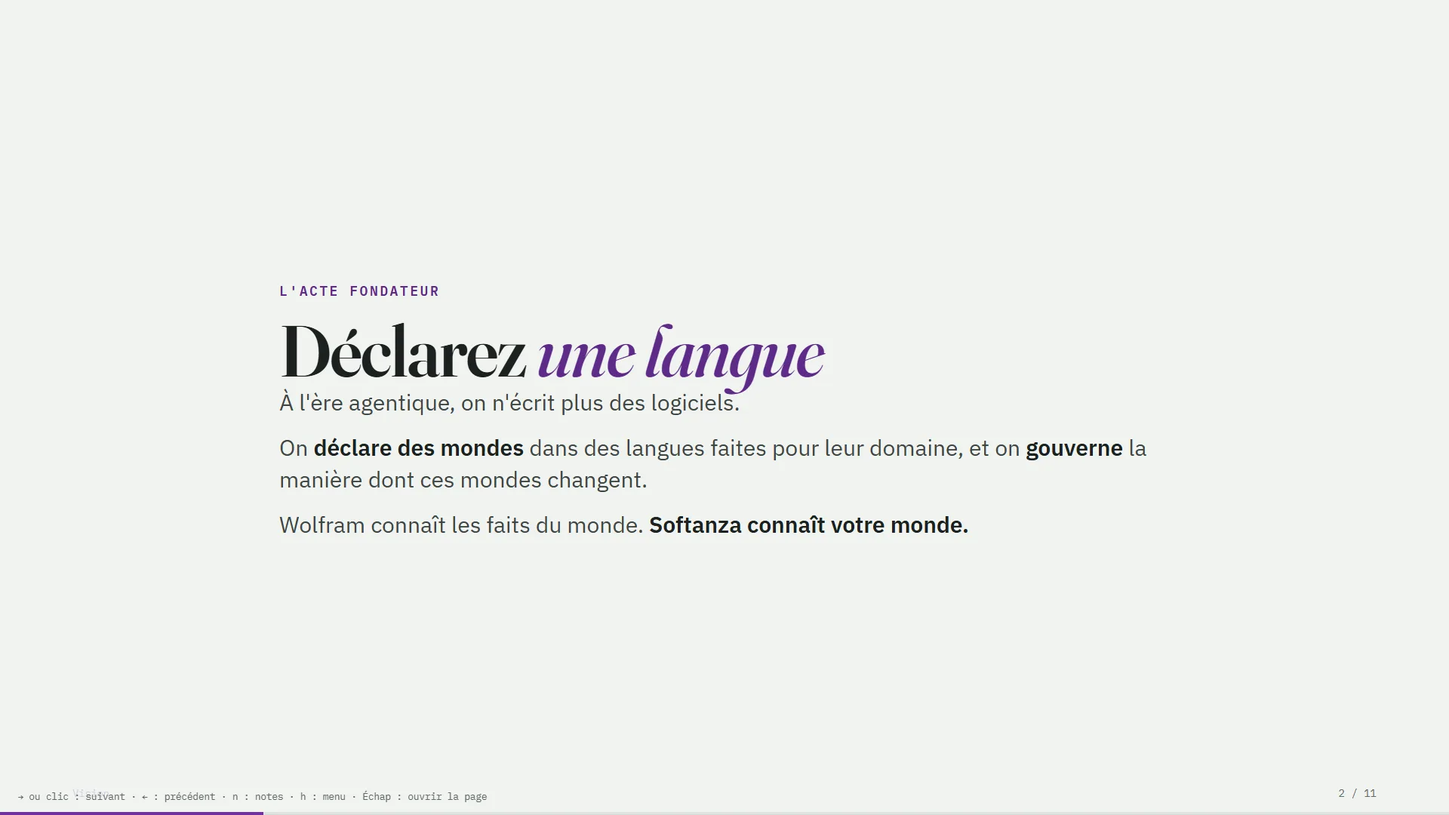
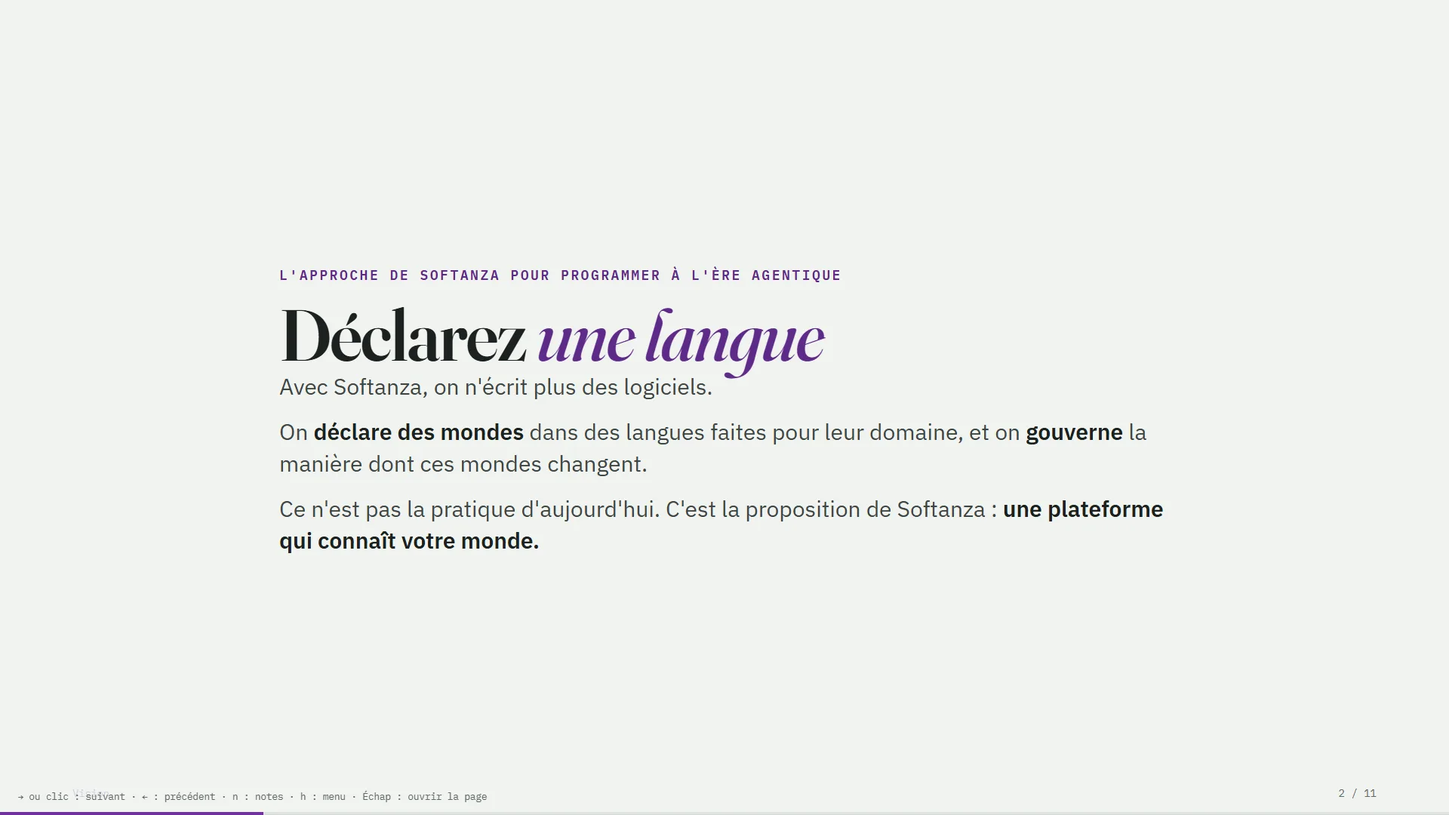
Wording: Wolfram is never put forward, and the declared-language approach is Softanza's own, not today's practice
On the author's reading: the sentence "Wolfram knows the world's facts.
Softanza knows your world." leaves the agentic page, the vision page and the
tour in both languages; every sentence stating the founding act is attributed
to Softanza ("with Softanza you do not write software", "Softanza's approach to
programming in the agentic age, not today's practice"). Wolfram remains only as
one of four platforms in the comparison lists and the coverage matrix.

Changed region(s): [[0.1875, 0.3361, 0.8125, 0.6722], [0.5312, 0.3361, 0.5625, 0.3667], [0.4062, 0.3361, 0.4375, 0.3667]]

diff --git a/fr/agentic.html b/fr/agentic.html
@@ -79,7 +79,7 @@ TOTAL: 13 assertions, 13 pass, 0 fail</pre>
 <p class="way"><span>La manière Softanza</span> L'expression est libre, l'admission est gouvernée. Deviner est remplacé par demander ; les vibrations sont remplacées par la gouvernance.</p>
 
 <h2 id="languages">Une langue des langues : déclarez la vôtre</h2>
-<p>L'acte fondateur de la plateforme est que <strong>déclarer une langue est aussi simple que déclarer une variable.</strong> Un expert du métier écrit, en texte brut, les choses de son monde, les règles entre elles et les flux qui les font bouger. De cette seule déclaration sortent une langue dans son jargon, une base de connaissances de son monde, et un agent qui la parle. Tout cela tourne sur la machine, propulsé par les propres outils de la plateforme : pas d'API, pas de modèle distant, pas d'abonnement.</p>
+<p>L'acte fondateur de Softanza, et sa propre réponse à la programmation à l'ère agentique, est que <strong>déclarer une langue est aussi simple que déclarer une variable.</strong> Ce n'est pas ainsi que l'on écrit les logiciels aujourd'hui ; c'est la voie que Softanza propose. Un expert du métier écrit, en texte brut, les choses de son monde, les règles entre elles et les flux qui les font bouger. De cette seule déclaration sortent une langue dans son jargon, une base de connaissances de son monde, et un agent qui la parle. Tout cela tourne sur la machine, propulsé par les propres outils de la plateforme : pas d'API, pas de modèle distant, pas d'abonnement.</p>
 <figure class="diagram"><img src="../assets/img/diagrams/languages-fr.png" alt="Un expert du métier déclare : DEFINE LANGUAGE tontine, ENTITY member et deposit, NORM amount supérieur à zéro, FLOW round et payout. Par une grammaire fermée viennent trois résultats : une langue de votre métier, fermée et jugée, construite ; une base de connaissances, en pointillé ; un agent qui la parle en local, en pointillé. En pointillé : une direction, pas un fait aujourd'hui." width="1376" height="768"><figcaption>La langue du métier existe et est prouvée : 16 cas de conformité sur 16, sur trois exécutants. La base de connaissances et l'agent conversationnel, comme une seule chaîne depuis une seule déclaration, sont spécifiés et ne tournent pas encore de bout en bout. Dessiné le 2026-10-01.</figcaption></figure>
 
 <p>À quoi ressemble une déclaration, prise dans la langue machine du domaine lui-même. Soixante-dix-neuf lignes déclarent toute la langue ; le méta-tribunal l'a jugée : sept déclarations, cinq formes, zéro expression.</p>
@@ -103,7 +103,7 @@ DEFINE NORM positive_deposit AS (
 
 <p class="proof">Trois strates par langue : une syntaxe fermée, une sémantique en base de connaissances, une pragmatique conversationnelle ; la couche naturelle compile vers la propre grammaire de requête fermée de la langue et jamais vers du code hôte, et elle est fondée sur un dictionnaire, ce qui explique qu'elle n'ait besoin d'aucun modèle. La déclaration de la machine est dans <a href="https://github.com/mayouni/harobanda">le dépôt Harobanda</a>, fichier <code>declarative/machine/machine.stzu</code>. Le dépôt de la discipline de fabrication de langues n'est pas encore public ; son stade, dans ses propres mots : « Phase 1 fermée, phase 1.5 ouverte ; plan et études, pas de code dans ce dépôt encore ». Ce qui tourne aujourd'hui tourne dans la plateforme : <a href="learn.html#book">le chapitre 12 du cours, « Enseigner un monde »</a>, et la couche naturelle montrée sur <a href="platform.html#code">la page Plateforme</a>.</p>
 
-<p class="way"><span>La manière Softanza</span> Wolfram connaît les faits du monde. Softanza connaît votre monde, parce que vous l'avez déclaré, dans votre langue, et que la plateforme a jugé la déclaration.</p>
+<p class="way"><span>La manière Softanza</span> Ce n'est pas ainsi que l'on programme aujourd'hui ; c'est la proposition de Softanza pour l'ère agentique : une plateforme qui connaît votre monde, parce que vous l'avez déclaré, dans votre langue, et qu'elle a jugé la déclaration.</p>
 
 <h2 id="zui">La constitution Zui : une loi qu'une machine peut refuser de violer</h2>
 <p>Les interfaces se dégradent à l'ère agentique, et non par manque de générateurs capables : les générateurs reproduisent, à la vitesse de la machine, chaque présupposé hérité du corpus qu'ils ont appris. La réponse de Softanza est Zui, une constitution pour les interfaces : <strong>122 règles</strong> en 31 ensembles sous 7 articles, <strong>22 verbes</strong> en 6 familles, 6 droits de l'opérateur, et un vérificateur qui contrôle une page contre la loi.</p>

diff --git a/en/agentic.html b/en/agentic.html
@@ -79,7 +79,7 @@ TOTAL: 13 assertions, 13 pass, 0 fail</pre>
 <p class="way"><span>The Softanza way</span> Expression is free, admission is governed. Guessing is replaced by asking; vibes are replaced by governance.</p>
 
 <h2 id="languages">A language of languages: declare yours</h2>
-<p>The founding act of the platform is that <strong>declaring a language is as easy as declaring a variable.</strong> A domain expert writes, in plain text, the things of their world, the rules between them and the flows that move them. Out of that one declaration come a language in their jargon, a knowledge base of their world, and an agent that speaks it. All of it runs on the device, powered by the platform's own tools: no API, no remote model, no subscription.</p>
+<p>Softanza's founding act, and its own answer to programming in the agentic age, is that <strong>declaring a language is as easy as declaring a variable.</strong> This is not how software is written today; it is the way Softanza proposes. A domain expert writes, in plain text, the things of their world, the rules between them and the flows that move them. Out of that one declaration come a language in their jargon, a knowledge base of their world, and an agent that speaks it. All of it runs on the device, powered by the platform's own tools: no API, no remote model, no subscription.</p>
 <figure class="diagram"><img src="../assets/img/diagrams/languages-en.png" alt="A domain expert declares: DEFINE LANGUAGE tontine, ENTITY member and deposit, NORM amount greater than zero, FLOW round and payout. Through one closed grammar come three outcomes: a language of your domain, closed and judged, built; a knowledge base of your world, dashed; an agent that speaks it locally, dashed. Dashed means a direction, not a fact today." width="1376" height="768"><figcaption>The domain language exists and is proven: 16 of 16 conformance cases across three runtimes. The knowledge base and the conversational agent, as one chain from one declaration, are specified and not yet running end to end. Drawn 2026-10-01.</figcaption></figure>
 
 <p>What a declaration looks like, from the estate's own machine language. Seventy-nine lines declare the whole language; the meta-court judged it: seven declarations, five forms, zero expressions.</p>
@@ -103,7 +103,7 @@ DEFINE NORM positive_deposit AS (
 
 <p class="proof">Three strata per language: a closed syntax, a knowledge-base semantics, a conversational pragmatics; the natural layer compiles to the language's own closed query grammar and never to host code, and it is dictionary-driven, which is why it needs no model. The machine declaration is in <a href="https://github.com/mayouni/harobanda">the Harobanda repository</a>, file <code>declarative/machine/machine.stzu</code>. The language-making discipline's own repository is not public yet; its stage, in its own words: "Phase 1 closed, Phase 1.5 open; blueprint and studies, no code in this repository yet". What runs today runs in the platform: <a href="learn.html#book">chapter 12 of the course, "Teach a world"</a>, and the natural layer shown on <a href="platform.html#code">the Platform page</a>.</p>
 
-<p class="way"><span>The Softanza way</span> Wolfram knows the world's facts. Softanza knows your world, because you declared it, in your language, and the platform judged the declaration.</p>
+<p class="way"><span>The Softanza way</span> This is not how programming is done today; it is Softanza's proposal for the agentic age: a platform that knows your world, because you declared it, in your language, and the platform judged the declaration.</p>
 
 <h2 id="zui">The Zui constitution: a law a machine can refuse to violate</h2>
 <p>Interfaces are decaying in the agentic age, and not for lack of capable generators: the generators reproduce, at machine speed, every inherited assumption of the corpus they learned from. Softanza's answer is Zui, a constitution for interfaces: <strong>122 rules</strong> in 31 sets under 7 articles, <strong>22 verbs</strong> in 6 families, 6 operator rights, and a verifier that checks a page against the law.</p>

diff --git a/content/home.html b/content/home.html
@@ -11,8 +11,8 @@
     <h1 class="hero-slogan" data-lang="en">The Makers Platform of the Agentic Age</h1>
     <p class="hero-second" data-lang="fr">Née en Afrique. Utile au monde !</p>
     <p class="hero-second" data-lang="en">Born in Africa. Useful to the World!</p>
-    <p class="hero-voice" data-lang="fr">Vous ne programmez plus des logiciels : vous déclarez votre monde dans une langue faite pour lui, un moteur l'exécute, et des agents la parlent sans pouvoir vous nuire.</p>
-    <p class="hero-voice" data-lang="en">You no longer write software: you declare your world in a language made for it, one engine runs it, and agents speak it without being able to hurt you.</p>
+    <p class="hero-voice" data-lang="fr">Avec Softanza, vous ne programmez plus des logiciels : vous déclarez votre monde dans une langue faite pour lui, un moteur l'exécute, et des agents la parlent sans pouvoir vous nuire.</p>
+    <p class="hero-voice" data-lang="en">With Softanza you no longer write software: you declare your world in a language made for it, one engine runs it, and agents speak it without being able to hurt you.</p>
     <div class="hero-actions">
       <a class="enter" href="fr/platform.html" data-lang="fr">Entrer <span aria-hidden="true">&rarr;</span></a>
       <a class="enter" href="en/platform.html" data-lang="en">Enter <span aria-hidden="true">&rarr;</span></a>
@@ -44,8 +44,8 @@
         <p class="proof" data-lang="fr"><a href="fr/platform.html">La plateforme</a> · <a href="fr/atlas.html">l'Atlas et ses notes</a> · <a href="fr/vision.html">la vision</a></p>
         <p class="proof" data-lang="en"><a href="en/platform.html">The platform</a> · <a href="en/atlas.html">the Atlas and its ratings</a> · <a href="en/vision.html">the vision</a></p></div>
       <div class="word"><div class="w-k" data-lang="fr">Ère agentique</div><div class="w-k" data-lang="en">Agentic age</div>
-        <p data-lang="fr">Les humains et les agents se rencontrent dans des langues déclarées, petites et fermées, et non dans du code général. Une grammaire contraint ce qu'un agent peut émettre ; un tribunal juge ce qu'il propose ; un monde sûr le laisse répéter sans toucher la réalité ; seul un acteur gouverné commet. Et contre le vibe coding, une autre manière de construire : le wise coding, où c'est la plateforme qui pose les questions.</p>
-        <p data-lang="en">Humans and agents meet in declared languages, small and closed, not in general code. A grammar constrains what an agent can emit; a court judges what it proposes; a safe world lets it rehearse without touching reality; only a governed actor commits. And against vibe coding, another way of building: wise coding, where the platform asks the questions.</p>
+        <p data-lang="fr">Chez Softanza, les humains et les agents se rencontrent dans des langues déclarées, petites et fermées, et non dans du code général. Une grammaire contraint ce qu'un agent peut émettre ; un tribunal juge ce qu'il propose ; un monde sûr le laisse répéter sans toucher la réalité ; seul un acteur gouverné commet. Et contre le vibe coding, une autre manière de construire : le wise coding, où c'est la plateforme qui pose les questions.</p>
+        <p data-lang="en">In Softanza, humans and agents meet in declared languages, small and closed, not in general code. A grammar constrains what an agent can emit; a court judges what it proposes; a safe world lets it rehearse without touching reality; only a governed actor commits. And against vibe coding, another way of building: wise coding, where the platform asks the questions.</p>
         <p class="proof" data-lang="fr"><a href="fr/agentic.html">Le paradigme agentique</a> · 610 suppressions proposées, aucune commise</p>
         <p class="proof" data-lang="en"><a href="en/agentic.html">The agentic paradigm</a> · 610 deletions proposed, none committed</p></div>
     </div>

diff --git a/index.html b/index.html
@@ -49,8 +49,8 @@
     <h1 class="hero-slogan" data-lang="en">The Makers Platform of the Agentic Age</h1>
     <p class="hero-second" data-lang="fr">Née en Afrique. Utile au monde !</p>
     <p class="hero-second" data-lang="en">Born in Africa. Useful to the World!</p>
-    <p class="hero-voice" data-lang="fr">Vous ne programmez plus des logiciels : vous déclarez votre monde dans une langue faite pour lui, un moteur l'exécute, et des agents la parlent sans pouvoir vous nuire.</p>
-    <p class="hero-voice" data-lang="en">You no longer write software: you declare your world in a language made for it, one engine runs it, and agents speak it without being able to hurt you.</p>
+    <p class="hero-voice" data-lang="fr">Avec Softanza, vous ne programmez plus des logiciels : vous déclarez votre monde dans une langue faite pour lui, un moteur l'exécute, et des agents la parlent sans pouvoir vous nuire.</p>
+    <p class="hero-voice" data-lang="en">With Softanza you no longer write software: you declare your world in a language made for it, one engine runs it, and agents speak it without being able to hurt you.</p>
     <div class="hero-actions">
       <a class="enter" href="fr/platform.html" data-lang="fr">Entrer <span aria-hidden="true">&rarr;</span></a>
       <a class="enter" href="en/platform.html" data-lang="en">Enter <span aria-hidden="true">&rarr;</span></a>
@@ -82,8 +82,8 @@
         <p class="proof" data-lang="fr"><a href="fr/platform.html">La plateforme</a> · <a href="fr/atlas.html">l'Atlas et ses notes</a> · <a href="fr/vision.html">la vision</a></p>
         <p class="proof" data-lang="en"><a href="en/platform.html">The platform</a> · <a href="en/atlas.html">the Atlas and its ratings</a> · <a href="en/vision.html">the vision</a></p></div>
       <div class="word"><div class="w-k" data-lang="fr">Ère agentique</div><div class="w-k" data-lang="en">Agentic age</div>
-        <p data-lang="fr">Les humains et les agents se rencontrent dans des langues déclarées, petites et fermées, et non dans du code général. Une grammaire contraint ce qu'un agent peut émettre ; un tribunal juge ce qu'il propose ; un monde sûr le laisse répéter sans toucher la réalité ; seul un acteur gouverné commet. Et contre le vibe coding, une autre manière de construire : le wise coding, où c'est la plateforme qui pose les questions.</p>
-        <p data-lang="en">Humans and agents meet in declared languages, small and closed, not in general code. A grammar constrains what an agent can emit; a court judges what it proposes; a safe world lets it rehearse without touching reality; only a governed actor commits. And against vibe coding, another way of building: wise coding, where the platform asks the questions.</p>
+        <p data-lang="fr">Chez Softanza, les humains et les agents se rencontrent dans des langues déclarées, petites et fermées, et non dans du code général. Une grammaire contraint ce qu'un agent peut émettre ; un tribunal juge ce qu'il propose ; un monde sûr le laisse répéter sans toucher la réalité ; seul un acteur gouverné commet. Et contre le vibe coding, une autre manière de construire : le wise coding, où c'est la plateforme qui pose les questions.</p>
+        <p data-lang="en">In Softanza, humans and agents meet in declared languages, small and closed, not in general code. A grammar constrains what an agent can emit; a court judges what it proposes; a safe world lets it rehearse without touching reality; only a governed actor commits. And against vibe coding, another way of building: wise coding, where the platform asks the questions.</p>
         <p class="proof" data-lang="fr"><a href="fr/agentic.html">Le paradigme agentique</a> · 610 suppressions proposées, aucune commise</p>
         <p class="proof" data-lang="en"><a href="en/agentic.html">The agentic paradigm</a> · 610 deletions proposed, none committed</p></div>
     </div>

diff --git a/fr/vision.html b/fr/vision.html
@@ -76,11 +76,11 @@
 <h2 id="principles">Les principes, en mots simples</h2>
 <p>Douze idées tiennent la plateforme. Chacune tient ici en une phrase ; les preuves sont sur les pages que ce site relie.</p>
 <div class="cards principles">
-<div class="card"><h3>1 · Déclarez une langue</h3><p>À l'ère agentique on n'écrit plus des logiciels : on déclare son monde dans une langue faite pour lui, et on gouverne la manière dont ce monde change. <a href="agentic.html#languages">Comment</a>.</p></div>
+<div class="card"><h3>1 · Déclarez une langue</h3><p>L'approche de Softanza pour programmer à l'ère agentique, et non la pratique d'aujourd'hui : on n'écrit pas des logiciels, on déclare son monde dans une langue faite pour lui, et on gouverne la manière dont ce monde change. <a href="agentic.html#languages">Comment</a>.</p></div>
 <div class="card"><h3>2 · Tout est jugé</h3><p>Une narration s'exécute quand on la lit ; une promesse est vérifiée en s'exécutant ; un garde compte ses assertions. Ce qui n'a pas tourné n'est pas montré, sur ce site non plus.</p></div>
 <div class="card"><h3>3 · Un moteur, plusieurs visages</h3><p>La substance vit dans le moteur Zig ; la langue en est le visage, et un visage futur partage le même moteur. <a href="platform.html#engine">Le moteur</a>.</p></div>
 <div class="card"><h3>4 · Des agents qui ne peuvent pas nuire</h3><p>Un modèle propose ; un atelier répète ; un tribunal juge ; seul un acteur gouverné commet. <a href="agentic.html#govern">Le paradigme</a>.</p></div>
-<div class="card"><h3>5 · La connaissance de votre monde</h3><p>Wolfram connaît les faits du monde. Softanza connaît votre monde : ses entités, ses règles, ses acteurs et ses flux, déclarés en texte brut.</p></div>
+<div class="card"><h3>5 · La connaissance de votre monde</h3><p>Softanza connaît votre monde, et non les faits du monde en général : ses entités, ses règles, ses acteurs et ses flux, déclarés en texte brut.</p></div>
 <div class="card"><h3>6 · Un code qui se lit</h3><p>L'humain est l'analyseur : trouver d'abord, agir ensuite ; les noms sont des verbes ; une instruction en langue naturelle s'exécute. <a href="platform.html#code">À côté de Python</a>.</p></div>
 <div class="card"><h3>7 · Dans votre langue</h3><p>Le cours parle anglais, français, arabe et haoussa ; le moteur compte des lettres, pas des octets ; la même instruction s'exécute dans les quatre langues.</p></div>
 <div class="card"><h3>8 · Exact par défaut</h3><p>Un entier est exact à toute taille ; un décimal dit qu'il est décimal ; l'algèbre est prouvée contre un oracle.</p></div>

diff --git a/en/vision.html b/en/vision.html
@@ -76,11 +76,11 @@
 <h2 id="principles">The principles, in plain words</h2>
 <p>Twelve ideas hold the platform up. Each is one sentence here; the proofs behind them are on the pages this site links.</p>
 <div class="cards principles">
-<div class="card"><h3>1 · Declare a language</h3><p>In the agentic age you do not write software: you declare your world in a language made for it, and you govern how that world changes. <a href="agentic.html#languages">How</a>.</p></div>
+<div class="card"><h3>1 · Declare a language</h3><p>Softanza's approach to programming in the agentic age, not today's practice: you do not write software, you declare your world in a language made for it, and you govern how that world changes. <a href="agentic.html#languages">How</a>.</p></div>
 <div class="card"><h3>2 · Everything is judged</h3><p>A narration runs as it is read; a promise is checked by running; a guard counts its assertions. What did not run is not shown, on this site either.</p></div>
 <div class="card"><h3>3 · One engine, many faces</h3><p>Substance lives in the Zig engine; the language is its face, and a future face shares the same engine. <a href="platform.html#engine">The engine</a>.</p></div>
 <div class="card"><h3>4 · Agents that cannot hurt you</h3><p>A model proposes; a workbench rehearses; a court judges; only a governed actor commits. <a href="agentic.html#govern">The paradigm</a>.</p></div>
-<div class="card"><h3>5 · Knowledge of your world</h3><p>Wolfram knows the world's facts. Softanza knows your world: its entities, rules, actors and flows, declared in plain text.</p></div>
+<div class="card"><h3>5 · Knowledge of your world</h3><p>Softanza knows your world, not the world's facts in general: its entities, rules, actors and flows, declared in plain text.</p></div>
 <div class="card"><h3>6 · Code that reads</h3><p>The human is the parser: find first, then apply; names are verbs; a natural-language instruction runs. <a href="platform.html#code">Beside Python</a>.</p></div>
 <div class="card"><h3>7 · In your language</h3><p>The course speaks English, French, Arabic and Hausa; the engine counts letters, not bytes; the same instruction runs in the four languages.</p></div>
 <div class="card"><h3>8 · Exact by default</h3><p>An integer is exact at any size; a decimal says it is decimal; the algebra is proven against an oracle.</p></div>

diff --git a/fr/tour.html b/fr/tour.html
@@ -38,12 +38,12 @@
   <div class="scene-foot"><a class="scene-page" href="../index.html">Accueil</a><span class="scene-count mono">1 / 11</span></div>
 </section>
 <section class="scene " id="s2" data-index="2" aria-label="2/11">
-  <div class="scene-inner"><div class="eyebrow">L'acte fondateur</div>
+  <div class="scene-inner"><div class="eyebrow">L'approche de Softanza pour programmer à l'ère agentique</div>
 <h1 id="declarez-une-langue">Déclarez <i>une langue</i></h1>
-<p>À l'ère agentique, on n'écrit plus des logiciels.</p>
+<p>Avec Softanza, on n'écrit plus des logiciels.</p>
 <p>On <b>déclare des mondes</b> dans des langues faites pour leur domaine, et on <b>gouverne</b> la manière dont ces mondes changent.</p>
-<p>Wolfram connaît les faits du monde. <b>Softanza connaît votre monde.</b></p></div>
-  <aside class="notes"><div class="notes-inner"><div class="eyebrow">Notes</div><p>Trois idées, une par ligne. Ne pas lire la page. L'exemple parlé : une banque déclare ses entités, ses règles et ses acteurs ; le système répond « quels flux touchent le compte de dépôt, et qu'est-ce qui casse si j'ajoute un champ ». Wolfram ne peut pas répondre à cela : on ne lui a jamais donné votre banque.</p></div></aside>
+<p>Ce n'est pas la pratique d'aujourd'hui. C'est la proposition de Softanza : <b>une plateforme qui connaît votre monde.</b></p></div>
+  <aside class="notes"><div class="notes-inner"><div class="eyebrow">Notes</div><p>Trois idées, une par ligne. Ne pas lire la page. L'exemple parlé : une banque déclare ses entités, ses règles et ses acteurs ; le système répond « quels flux touchent le compte de dépôt, et qu'est-ce qui casse si j'ajoute un champ ». Aucun outil général ne peut répondre à cela : on ne lui a jamais donné votre banque. Le dire comme l'approche de Softanza, jamais comme ce que fait l'industrie.</p></div></aside>
   <div class="scene-foot"><a class="scene-page" href="vision.html">Vision</a><span class="scene-count mono">2 / 11</span></div>
 </section>
 <section class="scene " id="s3" data-index="3" aria-label="3/11">

diff --git a/en/tour.html b/en/tour.html
@@ -38,12 +38,12 @@
   <div class="scene-foot"><a class="scene-page" href="../index.html">Home</a><span class="scene-count mono">1 / 11</span></div>
 </section>
 <section class="scene " id="s2" data-index="2" aria-label="2/11">
-  <div class="scene-inner"><div class="eyebrow">The founding act</div>
+  <div class="scene-inner"><div class="eyebrow">Softanza's approach to programming in the agentic age</div>
 <h1 id="declare-a-language">Declare <i>a language</i></h1>
-<p>In the agentic age you do not write software.</p>
+<p>With Softanza you do not write software.</p>
 <p>You <b>declare worlds</b> in languages made for their domains, and you <b>govern</b> how those worlds change.</p>
-<p>Wolfram knows the world's facts. <b>Softanza knows your world.</b></p></div>
-  <aside class="notes"><div class="notes-inner"><div class="eyebrow">Notes</div><p>Three ideas, one per line. Do not read the page. The spoken example: a bank declares its entities, rules and actors; the system answers "which flows touch the deposit account, and what breaks if I add a field". Wolfram cannot answer that: it was never given your bank.</p></div></aside>
+<p>This is not today's practice. It is Softanza's proposal: <b>a platform that knows your world.</b></p></div>
+  <aside class="notes"><div class="notes-inner"><div class="eyebrow">Notes</div><p>Three ideas, one per line. Do not read the page. The spoken example: a bank declares its entities, rules and actors; the system answers "which flows touch the deposit account, and what breaks if I add a field". No general tool can answer that: none was ever given your bank. Say it as Softanza's approach, never as what the industry does.</p></div></aside>
   <div class="scene-foot"><a class="scene-page" href="vision.html">Vision</a><span class="scene-count mono">2 / 11</span></div>
 </section>
 <section class="scene " id="s3" data-index="3" aria-label="3/11">

diff --git a/content/fr/agentic.md b/content/fr/agentic.md
@@ -59,7 +59,7 @@ TOTAL: 13 assertions, 13 pass, 0 fail</pre>
 
 ## Une langue des langues : déclarez la vôtre {#languages}
 
-L'acte fondateur de la plateforme est que **déclarer une langue est aussi simple que déclarer une variable.** Un expert du métier écrit, en texte brut, les choses de son monde, les règles entre elles et les flux qui les font bouger. De cette seule déclaration sortent une langue dans son jargon, une base de connaissances de son monde, et un agent qui la parle. Tout cela tourne sur la machine, propulsé par les propres outils de la plateforme : pas d'API, pas de modèle distant, pas d'abonnement.
+L'acte fondateur de Softanza, et sa propre réponse à la programmation à l'ère agentique, est que **déclarer une langue est aussi simple que déclarer une variable.** Ce n'est pas ainsi que l'on écrit les logiciels aujourd'hui ; c'est la voie que Softanza propose. Un expert du métier écrit, en texte brut, les choses de son monde, les règles entre elles et les flux qui les font bouger. De cette seule déclaration sortent une langue dans son jargon, une base de connaissances de son monde, et un agent qui la parle. Tout cela tourne sur la machine, propulsé par les propres outils de la plateforme : pas d'API, pas de modèle distant, pas d'abonnement.
 
 <figure class="diagram"><img src="../assets/img/diagrams/languages-fr.png" alt="Un expert du métier déclare : DEFINE LANGUAGE tontine, ENTITY member et deposit, NORM amount supérieur à zéro, FLOW round et payout. Par une grammaire fermée viennent trois résultats : une langue de votre métier, fermée et jugée, construite ; une base de connaissances, en pointillé ; un agent qui la parle en local, en pointillé. En pointillé : une direction, pas un fait aujourd'hui." width="1376" height="768"><figcaption>La langue du métier existe et est prouvée : 16 cas de conformité sur 16, sur trois exécutants. La base de connaissances et l'agent conversationnel, comme une seule chaîne depuis une seule déclaration, sont spécifiés et ne tournent pas encore de bout en bout. Dessiné le 2026-10-01.</figcaption></figure>
 
@@ -86,7 +86,7 @@ DEFINE NORM positive_deposit AS (
 
 <p class="proof">Trois strates par langue : une syntaxe fermée, une sémantique en base de connaissances, une pragmatique conversationnelle ; la couche naturelle compile vers la propre grammaire de requête fermée de la langue et jamais vers du code hôte, et elle est fondée sur un dictionnaire, ce qui explique qu'elle n'ait besoin d'aucun modèle. La déclaration de la machine est dans <a href="https://github.com/mayouni/harobanda">le dépôt Harobanda</a>, fichier <code>declarative/machine/machine.stzu</code>. Le dépôt de la discipline de fabrication de langues n'est pas encore public ; son stade, dans ses propres mots : « Phase 1 fermée, phase 1.5 ouverte ; plan et études, pas de code dans ce dépôt encore ». Ce qui tourne aujourd'hui tourne dans la plateforme : <a href="learn.html#book">le chapitre 12 du cours, « Enseigner un monde »</a>, et la couche naturelle montrée sur <a href="platform.html#code">la page Plateforme</a>.</p>
 
-<p class="way"><span>La manière Softanza</span> Wolfram connaît les faits du monde. Softanza connaît votre monde, parce que vous l'avez déclaré, dans votre langue, et que la plateforme a jugé la déclaration.</p>
+<p class="way"><span>La manière Softanza</span> Ce n'est pas ainsi que l'on programme aujourd'hui ; c'est la proposition de Softanza pour l'ère agentique : une plateforme qui connaît votre monde, parce que vous l'avez déclaré, dans votre langue, et qu'elle a jugé la déclaration.</p>
 
 ## La constitution Zui : une loi qu'une machine peut refuser de violer {#zui}
 

diff --git a/content/en/agentic.md b/content/en/agentic.md
@@ -59,7 +59,7 @@ TOTAL: 13 assertions, 13 pass, 0 fail</pre>
 
 ## A language of languages: declare yours {#languages}
 
-The founding act of the platform is that **declaring a language is as easy as declaring a variable.** A domain expert writes, in plain text, the things of their world, the rules between them and the flows that move them. Out of that one declaration come a language in their jargon, a knowledge base of their world, and an agent that speaks it. All of it runs on the device, powered by the platform's own tools: no API, no remote model, no subscription.
+Softanza's founding act, and its own answer to programming in the agentic age, is that **declaring a language is as easy as declaring a variable.** This is not how software is written today; it is the way Softanza proposes. A domain expert writes, in plain text, the things of their world, the rules between them and the flows that move them. Out of that one declaration come a language in their jargon, a knowledge base of their world, and an agent that speaks it. All of it runs on the device, powered by the platform's own tools: no API, no remote model, no subscription.
 
 <figure class="diagram"><img src="../assets/img/diagrams/languages-en.png" alt="A domain expert declares: DEFINE LANGUAGE tontine, ENTITY member and deposit, NORM amount greater than zero, FLOW round and payout. Through one closed grammar come three outcomes: a language of your domain, closed and judged, built; a knowledge base of your world, dashed; an agent that speaks it locally, dashed. Dashed means a direction, not a fact today." width="1376" height="768"><figcaption>The domain language exists and is proven: 16 of 16 conformance cases across three runtimes. The knowledge base and the conversational agent, as one chain from one declaration, are specified and not yet running end to end. Drawn 2026-10-01.</figcaption></figure>
 
@@ -86,7 +86,7 @@ DEFINE NORM positive_deposit AS (
 
 <p class="proof">Three strata per language: a closed syntax, a knowledge-base semantics, a conversational pragmatics; the natural layer compiles to the language's own closed query grammar and never to host code, and it is dictionary-driven, which is why it needs no model. The machine declaration is in <a href="https://github.com/mayouni/harobanda">the Harobanda repository</a>, file <code>declarative/machine/machine.stzu</code>. The language-making discipline's own repository is not public yet; its stage, in its own words: "Phase 1 closed, Phase 1.5 open; blueprint and studies, no code in this repository yet". What runs today runs in the platform: <a href="learn.html#book">chapter 12 of the course, "Teach a world"</a>, and the natural layer shown on <a href="platform.html#code">the Platform page</a>.</p>
 
-<p class="way"><span>The Softanza way</span> Wolfram knows the world's facts. Softanza knows your world, because you declared it, in your language, and the platform judged the declaration.</p>
+<p class="way"><span>The Softanza way</span> This is not how programming is done today; it is Softanza's proposal for the agentic age: a platform that knows your world, because you declared it, in your language, and the platform judged the declaration.</p>
 
 ## The Zui constitution: a law a machine can refuse to violate {#zui}
 

diff --git a/content/fr/vision.md b/content/fr/vision.md
@@ -60,11 +60,11 @@ Le mot du domaine pour la souveraineté a exactement un sens : **rien que quicon
 Douze idées tiennent la plateforme. Chacune tient ici en une phrase ; les preuves sont sur les pages que ce site relie.
 
 <div class="cards principles">
-<div class="card"><h3>1 · Déclarez une langue</h3><p>À l'ère agentique on n'écrit plus des logiciels : on déclare son monde dans une langue faite pour lui, et on gouverne la manière dont ce monde change. <a href="agentic.html#languages">Comment</a>.</p></div>
+<div class="card"><h3>1 · Déclarez une langue</h3><p>L'approche de Softanza pour programmer à l'ère agentique, et non la pratique d'aujourd'hui : on n'écrit pas des logiciels, on déclare son monde dans une langue faite pour lui, et on gouverne la manière dont ce monde change. <a href="agentic.html#languages">Comment</a>.</p></div>
 <div class="card"><h3>2 · Tout est jugé</h3><p>Une narration s'exécute quand on la lit ; une promesse est vérifiée en s'exécutant ; un garde compte ses assertions. Ce qui n'a pas tourné n'est pas montré, sur ce site non plus.</p></div>
 <div class="card"><h3>3 · Un moteur, plusieurs visages</h3><p>La substance vit dans le moteur Zig ; la langue en est le visage, et un visage futur partage le même moteur. <a href="platform.html#engine">Le moteur</a>.</p></div>
 <div class="card"><h3>4 · Des agents qui ne peuvent pas nuire</h3><p>Un modèle propose ; un atelier répète ; un tribunal juge ; seul un acteur gouverné commet. <a href="agentic.html#govern">Le paradigme</a>.</p></div>
-<div class="card"><h3>5 · La connaissance de votre monde</h3><p>Wolfram connaît les faits du monde. Softanza connaît votre monde : ses entités, ses règles, ses acteurs et ses flux, déclarés en texte brut.</p></div>
+<div class="card"><h3>5 · La connaissance de votre monde</h3><p>Softanza connaît votre monde, et non les faits du monde en général : ses entités, ses règles, ses acteurs et ses flux, déclarés en texte brut.</p></div>
 <div class="card"><h3>6 · Un code qui se lit</h3><p>L'humain est l'analyseur : trouver d'abord, agir ensuite ; les noms sont des verbes ; une instruction en langue naturelle s'exécute. <a href="platform.html#code">À côté de Python</a>.</p></div>
 <div class="card"><h3>7 · Dans votre langue</h3><p>Le cours parle anglais, français, arabe et haoussa ; le moteur compte des lettres, pas des octets ; la même instruction s'exécute dans les quatre langues.</p></div>
 <div class="card"><h3>8 · Exact par défaut</h3><p>Un entier est exact à toute taille ; un décimal dit qu'il est décimal ; l'algèbre est prouvée contre un oracle.</p></div>

diff --git a/content/en/vision.md b/content/en/vision.md
@@ -60,11 +60,11 @@ The estate's word for sovereignty has exactly one meaning: **nothing anyone else
 Twelve ideas hold the platform up. Each is one sentence here; the proofs behind them are on the pages this site links.
 
 <div class="cards principles">
-<div class="card"><h3>1 · Declare a language</h3><p>In the agentic age you do not write software: you declare your world in a language made for it, and you govern how that world changes. <a href="agentic.html#languages">How</a>.</p></div>
+<div class="card"><h3>1 · Declare a language</h3><p>Softanza's approach to programming in the agentic age, not today's practice: you do not write software, you declare your world in a language made for it, and you govern how that world changes. <a href="agentic.html#languages">How</a>.</p></div>
 <div class="card"><h3>2 · Everything is judged</h3><p>A narration runs as it is read; a promise is checked by running; a guard counts its assertions. What did not run is not shown, on this site either.</p></div>
 <div class="card"><h3>3 · One engine, many faces</h3><p>Substance lives in the Zig engine; the language is its face, and a future face shares the same engine. <a href="platform.html#engine">The engine</a>.</p></div>
 <div class="card"><h3>4 · Agents that cannot hurt you</h3><p>A model proposes; a workbench rehearses; a court judges; only a governed actor commits. <a href="agentic.html#govern">The paradigm</a>.</p></div>
-<div class="card"><h3>5 · Knowledge of your world</h3><p>Wolfram knows the world's facts. Softanza knows your world: its entities, rules, actors and flows, declared in plain text.</p></div>
+<div class="card"><h3>5 · Knowledge of your world</h3><p>Softanza knows your world, not the world's facts in general: its entities, rules, actors and flows, declared in plain text.</p></div>
 <div class="card"><h3>6 · Code that reads</h3><p>The human is the parser: find first, then apply; names are verbs; a natural-language instruction runs. <a href="platform.html#code">Beside Python</a>.</p></div>
 <div class="card"><h3>7 · In your language</h3><p>The course speaks English, French, Arabic and Hausa; the engine counts letters, not bytes; the same instruction runs in the four languages.</p></div>
 <div class="card"><h3>8 · Exact by default</h3><p>An integer is exact at any size; a decimal says it is decimal; the algebra is proven against an oracle.</p></div>
